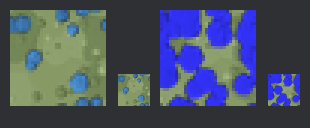
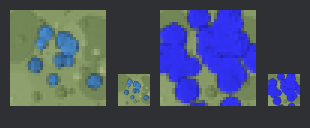
A glint belongs to a rock, not to the square of tile it lands on (ASSA-216) (#319)
* A clump may only be bigger than a tile if it crosses one (ASSA-216, not for merge yet)

Maren's ruling: clump the spots in `ore.py::tile` rather than scattering them
uniformly, same count, sizes and colours, and bring the panel at 1x.

THE FIRST THING I RENDERED WAS WORSE THAN CONFETTI. Pulling each rock toward one
of four centres INSIDE its tile, at 0.80, 0.60 and 0.40, draws a GRID: at 1x the
patch reads as rows of blobs with straight gaps, which is the tile lattice QA has
caught us drawing before, traded for the confetti it was meant to fix. The cause
is structural rather than a bad constant - structure confined to a 32 px cell,
with four variants placed by a hash, gives the eye a lattice to find.

SO THE CLUSTER CENTRES ARE THE MIDPOINTS OF THE TILE'S EDGES. A clump is then
completed by the neighbour's clump on the other side of the join, whichever
variant the hash put there: the one arrangement a hash-placed sheet can make that
is larger than its own cell. No new rows, no block path, no engine change, and
the same count, sizes, colours and `random` draws in the same order - only WHERE
each rock sits changes, so coverage is the only quantity that can move and it
moves only through overlap.

MEASURED ON THE RENDERS, grade A: coverage 65.1% -> 62.0% (about a fifth of the
shipped B->A gap), C untouched, B smaller. Five art checks pass. `check_headroom`
FAILS BY 0.4 OF A POINT ON TWO ROWS (A_full_v3 8.3 -> 8.7, B_full_v3 1.2 -> 1.6,
[…]

Changed region(s): [[0.3774, 0.0625, 0.9871, 0.8438], [0.029, 0.0625, 0.3484, 0.8438], [0.3194, 0.1562, 0.3484, 0.25]]

diff --git a/sim-game/art/check_clumped.py b/sim-game/art/check_clumped.py
@@ -1,0 +1,197 @@
+#!/usr/bin/env python3
+"""GRADE-A ORE IS CLUMPED, AND OPEN GROUND BETWEEN CLUMPS IS THE PROOF (ASSA-216)
+
+    art/check_clumped.py              # the guard, on the shipped sheet
+    art/check_clumped.py <sheet.png>  # judge any ore sheet, e.g. an old one:
+                                      #   git show 0ddbbb9:sim-game/client/assets/sprites/ore.png > /tmp/old.png
+                                      #   art/check_clumped.py /tmp/old.png   -> FAIL, as it must
+
+WHAT THIS DEFENDS. Maren's ASSA-216 ruling was arrangement, not value: 19 rocks
+spread uniformly over a tile leave holes of one size everywhere, so a deposit
+integrates to a flat yellow mass at 1x -- "candy", "confetti", a texture-scale
+complaint and not a colour one. The fix gathers the same rocks into clumps that
+straddle the tile's joins. Nothing about the fix is visible in any quantity the
+other checks measure: the count, the sizes, the colours, the palette and (since
+`relax()`) the coverage are all deliberately unchanged, so `check_headroom`,
+`check_species_tints` and `species_probe` would all stay green on a revert.
+
+THE MEASURE IS THE GAP, BECAUSE THE GAP IS WHAT A CLUMP MAKES. For every open
+pixel of a tile, the distance to the nearest rock, on the TORUS because the tile
+is seamless; the number is the mean over open pixels. Scatter 19 rocks evenly
+and that mean is small everywhere; gather them and lanes open between the
+clumps. On the authored 64 px frames it rose on every grade-A row at once:
+3.37 -> 4.15, 4.86 -> 6.40, 3.84 -> 4.64, 3.71 -> 4.81.
+
+GRADE A ONLY, AND I WILL SAY WHY RATHER THAN QUIETLY PICK THE ROWS THAT WON.
+This item is about a grade-A deposit; grade A is where the rock is dense enough
+for an arrangement to read at all. On the B rows the same statistic moved by
+anything from -1% to +42%, so a floor there would either be vacuous or would
+fail honest art. This check makes no claim about B, C or depleted.
+
+THE FLOOR IS A MEASUREMENT WITH SLACK, NOT A NUMBER I LIKED: each row's value
+as it ships, times 0.90. The slack is generous on purpose and still huge against
+the noise -- two independent Blender renders of the same art give this statistic
+to **0.00%**, because it reads the alpha silhouette and not the shading.
+
+EXIT CODES
+  0 PASS       -- every grade-A row still has its lanes.
+  1 FAIL       -- a row's open ground tightened: the clump has been undone,
+                  or density was raised until the gaps closed.
+  2 NO VERDICT -- sheet unreadable or a control did not hold. Never a pass.
+"""
+import json, os, sys
+from collections import deque
+
+ART = os.path.dirname(os.path.abspath(__file__))
+SPRITES = os.path.join(os.path.dirname(ART), "client", "assets", "sprites")
+OPAQUE = 200          # same cut as check_headroom: above this is surface
+SLACK = 0.90
+
+# MEASURED ON THE SHIPPED SHEET, TIMES SLACK. Mean distance in authored pixels
+# from open ground to the nearest rock, per grade-A row.
+FLOOR = {
+    "A_full_v0": 3.74,
+    "A_full_v1": 5.76,
+    "A_full_v2": 4.18,
+    "A_full_v3": 4.33,
+}
+
+
+class CannotCheck(Exception):
+    pass
+
+
+def lanes(mask, w, h):
+    """Mean distance from an open pixel to the nearest solid one, wrapping.
+
+    A breadth-first flood from every solid pixel at once, which is the exact
+    4-connected distance transform and needs no library -- these checks run on
+    plain `python3` in CI, where there is no pip and no numpy."""
+    INF = 1 << 30
+    d = [[0 if mask[y][x] else INF for x in range(w)] for y in range(h)]
+    q = deque((x, y) for y in range(h) for x in range(w) if mask[y][x])
+    while q:
+        x, y = q.popleft()
+        for dx, dy in ((1, 0), (-1, 0), (0, 1), (0, -1)):
+            nx, ny = (x + dx) % w, (y + dy) % h
+            if d[ny][nx] > d[y][x] + 1:
+                d[ny][nx] = d[y][x] + 1
+                q.append((nx, ny))
+    open_px = [d[y][x] for y in range(h) for x in range(w) if not mask[y][x]]
+    return (sum(open_px) / len(open_px)) if open_px else None
+
+
+def rows_of(sheet):
+    """(row name, solid mask) for the grade-A rows of an ore sheet."""
+    sys.path.insert(0, ART)
+    from png_stdlib import read_rgba
+    man_path = os.path.join(SPRITES, "manifest.json")
+    if not os.path.exists(man_path):
+        raise CannotCheck("no manifest at %s -- run art/build.py" % man_path)
+    man = json.load(open(man_path)).get("ore")
+    if not man:
+        raise CannotCheck("the manifest describes no `ore` asset.")
+    if not os.path.exists(sheet):
+        raise CannotCheck("no sheet at %s" % sheet)
+    fw, fh = man["frame_px"]
+    _w, _h, px = read_rgba(sheet)
+    out = []
+    for ri, row in enumerate(man["rows"]):
+        if row["name"] not in FLOOR:
+            continue
+        mask = [[px[ri * fh + y][x][3] > OPAQUE for x in range(fw)] for y in range(fh)]
+        out.append((row["name"], mask, fw, fh))
+    if len(out) != len(FLOOR):
+        raise CannotCheck("found %d of the %d rows this check is about; the sheet "
+                          "or the manifest has been renamed under it."
+                          % (len(out), len(FLOOR)))
+    return out
+
+
+def judge(measured):
+    """[(row, mean)] -> the rows whose lanes have closed. One judge for the real
+    run and for the can-fail control, so the control cannot take another path."""
+    return [(n, v, FLOOR[n]) for n, v in measured if v < FLOOR[n]]
+
+
+def main(argv):
+    sheet = argv[0] if argv else os.path.join(SPRITES, "ore.png")
+    rows = rows_of(sheet)
+
+    # CONTROL 1, WIRING: a row with no rock, or no open ground, measures nothing
+    # -- and four identical numbers would mean the sheet is not being cut apart.
+    for name, mask, fw, fh in rows:
+        solid = sum(sum(1 for v in line if v) for line in mask)
+        if solid == 0 or solid == fw * fh:
+            raise CannotCheck("%s is all rock or all hole (%d of %d px): this "
+                              "statistic says nothing about it." % (name, solid, fw * fh))
+    measured = [(n, lanes(m, w, h)) for n, m, w, h in rows]
+    if len(set(round(v, 3) for _, v in measured)) < 2:
+        raise CannotCheck("every row measured the same -- the rows are not being "
+                          "read apart, so none of these numbers mean anything.")
+
+    if "--record" in argv:
+        print("FLOOR = {   # measured x %.2f" % SLACK)
+        for n, v in measured:
+            print("    %-14s %.2f," % ('"%s":' % n, v * SLACK))
+        print("}")
+        return 0
+
+    # CONTROL 2, IT CAN FAIL -- and the first lever I wrote for it did not, which
+    # is the reason this one is a model and not a nudge. Growing the real mask by
+    # a pixel all round LOOKS like closing the gaps and barely moves the mean:
+    # it deletes every open pixel at distance 1 and takes 1 off the rest, and
+    # E[d | d >= 2] - 1 lands back where E[d] was. The control caught my control.
+    #
+    # So the lever is the defect itself: a REGULAR scatter -- discs on a 5x5 grid
+    # at the row's own coverage, which is uniform art of the same density, the
+    # exact thing the clump replaced. It must be judged a failure.
+    name, mask, fw, fh = rows[0]
+    cov = sum(sum(1 for v in line if v) for line in mask) / float(fw * fh)
+    import math
+    side, flat = 5, [[False] * fw for _ in range(fh)]
+    rad = math.sqrt(cov * fw * fh / (side * side * math.pi))
+    for gy in range(side):
+        for gx in range(side):
+            cx, cy = (gx + 0.5) * fw / side, (gy + 0.5) * fh / side
+            for y in range(fh):
+                for x in range(fw):
+                    dx = min(abs(x - cx), fw - abs(x - cx))
+                    dy = min(abs(y - cy), fh - abs(y - cy))
+                    if dx * dx + dy * dy <= rad * rad:
+                        flat[y][x] = True
+    if not judge([(name, lanes(flat, fw, fh))]):
+        raise CannotCheck("the can-fail control did not fail: a regular 5x5 scatter "
+                          "at %s's own coverage (%.1f%%) measured %.2f px of open "
+                          "ground and this check passed it. The guard is not wired "
+                          "to the verdict." % (name, 100 * cov, lanes(flat, fw, fh)))
+
+    bad = judge(measured)
+    print("OPEN GROUND BETWEEN CLUMPS -- mean distance from an open pixel to the\n"
+          "nearest rock, wrapping, per grade-A row of %s.\n" % os.path.basename(sheet))
+    print("%-14s %10s %10s" % ("row", "mean px", "floor"))
+    for n, v in measured:
+        print("%-14s %10.2f %10.2f" % (n, v, FLOOR[n]))
+
+    if bad:
+        print("\n%d GRADE-A ROW(S) LOST THE LANES BETWEEN THEIR CLUMPS:" % len(bad))
+        for n, v, floor in bad:
+            print("  %-12s %.2f px of open ground, against a floor of %.2f" % (n, v, floor))
+        print("\nASSA-216: the complaint this art answers is that a deposit reads as one\n"
+              "flat mass at 1x. The clump in `art/assets/ore.py` (CLUMP_PULL, CLUMP_SEP,\n"
+              "CLUMP_EDGES) is what opens the gaps. If this went red on purpose, say in\n"
+              "the commit message what replaced it -- and look at a 9x9 field at 32 px\n"
+              "before you believe any number here, including this one.")
+        print("\nVERDICT: FAIL (exit 1).")
+        return 1
+    print("\nVERDICT: PASS (exit 0). Grade-A ore still reads as clumps with ground\n"
+          "between them, and both controls held.")
+    return 0
+
+
+if __name__ == "__main__":
+    try:
+        sys.exit(main(sys.argv[1:]))
+    except CannotCheck as why:
+        print("\nVERDICT: NO VERDICT (exit 2). This is not a pass.\n%s" % why)
+        sys.exit(2)

diff --git a/sim-game/art/assets/ore.py b/sim-game/art/assets/ore.py
@@ -151,6 +151,81 @@ def glint(r, s, loc):
                verts=5, rot=(random.uniform(-0.4, 0.4), random.uniform(-0.4, 0.4), ang))
 
 
+# **THE CLUMPS SIT ON THE TILE'S JOINS, NOT INSIDE IT** (ASSA-216). Gathering
+# rocks toward four centres INSIDE a tile was the first thing I rendered and it
+# draws a lattice: the structure stops at 32 px, every copy of a variant has its
+# holes in the same place, and at 1x the patch reads as a grid of blobs -- the
+# tile lattice QA has caught us drawing before, traded for the confetti it was
+# meant to fix. Three pulls, three renders, all of them a grid.
+#
+# A clump may only be bigger than a tile if it CROSSES one. These four centres
+# are the midpoints of the tile's four edges, so a clump is completed by the
+# neighbour's clump on the other side of the join, whichever variant that is --
+# the one arrangement a hash-placed sheet can make that is larger than its own
+# cell. Nothing else changes: same count, same sizes, same colours, same draws.
+CLUMP_EDGES = ((0.5, 0.0), (0.0, 0.5), (-0.5, 0.0), (0.0, -0.5))
+CLUMP_PULL = 0.50  # 1.0 = today's uniform scatter; 0 = every rock on its centre
+
+# **A PULL TOWARD A POINT SPENDS COVERAGE, AND COVERAGE IS THE GRADE LADDER**
+# (ASSA-216 box 4/5). Pulling 19 rocks toward a centre compresses the area they
+# sit in, so they bury each other: grade A's coverage fell 65.1% -> 62.0%, about
+# a fifth of the shipped B->A gap, for an arrangement change that is supposed to
+# claim nothing about quantity (rule 4 and the header's own "NEVER density").
+# It also broke `check_headroom`, which measures pinned pixels as a SHARE of a
+# row's opaque pixels: lose rock and keep glints and the share rises with the
+# art unchanged.
+#
+# So the clump is relaxed afterwards: any two rocks closer than
+# `CLUMP_SEP * (si + sj)` are pushed apart along their own axis, on the TORUS,
+# because the tile wraps. Rocks may touch and overlap -- the shipped scatter
+# already does, at 19 discs whose footprints sum to more than a tile -- they may
+# not bury each other. `CLUMP_SEP` is set by a measurement and not by eye: it is
+# the value that returns grade-A coverage to the shipped 65.1%, so the clump is
+# an arrangement change and only an arrangement change.
+CLUMP_SEP = 0.42
+CLUMP_PASSES = 48
+
+
+def clump(spots):
+    """The same rocks, gathered onto the joins. Spot i joins edge `i % 4` and is
+    pulled `CLUMP_PULL` of the way toward it, wrapped into the tile, because the
+    tile is seamless and a rock that leaves one side arrives at the other.
+    """
+    if CLUMP_PULL >= 1.0:
+        return spots
+    out = []
+    for i, (x, y, s) in enumerate(spots):
+        cx, cy = CLUMP_EDGES[i % len(CLUMP_EDGES)]
+        nx, ny = cx + (x - cx) * CLUMP_PULL, cy + (y - cy) * CLUMP_PULL
+        out.append(((nx + 0.5) % 1.0 - 0.5, (ny + 0.5) % 1.0 - 0.5, s))
+    return relax(out)
+
+
+def relax(spots):
+    """Push buried rocks apart, on the torus. Deterministic and `random`-free:
+    it must not consume a draw, or every rotation after it changes and the arm
+    stops being the same rocks in a different place."""
+    if CLUMP_SEP <= 0.0:
+        return spots
+    out = [[x, y, s] for (x, y, s) in spots]
+    for _ in range(CLUMP_PASSES):
+        for i in range(len(out)):
+            for j in range(i + 1, len(out)):
+                dx = (out[j][0] - out[i][0] + 0.5) % 1.0 - 0.5
+                dy = (out[j][1] - out[i][1] + 0.5) % 1.0 - 0.5
+                d = math.hypot(dx, dy)
+                want = CLUMP_SEP * (out[i][2] + out[j][2])
+                if d >= want:
+                    continue
+                if d < 1e-6:  # dead centre on each other: part them along x
+                    dx, dy, d = 1e-6, 0.0, 1e-6
+                push = (want - d) / 2.0
+                ux, uy = dx / d * push, dy / d * push
+                out[i][0] -= ux; out[i][1] -= uy
+                out[j][0] += ux; out[j][1] += uy
+    return [((x + 0.5) % 1.0 - 0.5, (y + 0.5) % 1.0 - 0.5, s) for (x, y, s) in out]
+
+
 def tile(step, seed):
     """`step` is the grade index 0..2, or -1 for depleted.
 
@@ -186,15 +261,44 @@ def tile(step, seed):
         count = 9 + step * 5
         smin, smax = 0.065 + step * 0.020, 0.115 + step * 0.032
         spots = [(random.uniform(-0.5, 0.5), random.uniform(-0.5, 0.5), random.uniform(smin, smax)) for _ in range(count)]
+        # **ARRANGEMENT, NOT DENSITY** (ASSA-216, Maren's ruling). The complaint
+        # is "candy"/"confetti", which is a word about texture before it is a
+        # word about value: 19 rocks spread uniformly over a tile leave holes of
+        # one size everywhere, so a patch of them integrates to a flat mass at
+        # 1x however the colours are arranged.
+        #
+        # THIS DOES NOT DRAW ANYTHING NEW. The same `count`, the same sizes and
+        # the same colours come off the same `random` draws in the same order --
+        # only WHERE each rock sits changes, by pulling it toward its cluster's
+        # centre. So coverage is the only quantity that can move, it moves only
+        # through overlap, and `CLUMP_PULL` is the one number to argue about.
+        # (The header's own rule: "if it ever looks stamped-on, the lever is
+        # more arrangement variants, NEVER density". This is that lever used on
+        # the arrangement itself rather than on the count.)
+        #
+        # THE GLINT SET IS DECIDED HERE, ON THE UNIFORM POSITIONS, BEFORE THE
+        # CLUMP MOVES ANYTHING. The test below used to read the rock's FINAL
+        # position, which quietly made an arrangement change a glint change:
+        # moving the rocks re-rolled which of them sparkle, and with 19 rocks
+        # that is +-2 glints a row. It showed up as `check_headroom` moving by
+        # five points on one row and nothing on another, out of a change that
+        # does not touch light at all. A glint belongs to a ROCK (its own size
+        # and seed), not to the square of tile it ends up on, and because
+        # `glint()` consumes random draws, pinning the set also keeps every
+        # later rock's rotation identical to the shipped art.
+        glints = [(x * 7 + y * 13) % 1 < 0.3 for (x, y, _s) in spots]
+        spots = clump(spots)
         colors = [shade(step, random.choice((0.0, 0.20, -0.15))) for _ in spots]
+    if step < 0:
+        glints = [False] * len(spots)
     for dx in (-1, 0, 1):
         for dy in (-1, 0, 1):
             random.seed(seed * 7 + 1)  # same rotations in every wrapped copy
-            for (x, y, s), c in zip(spots, colors):
+            for (x, y, s), c, lit in zip(spots, colors, glints):
                 rock(r, s, (x + dx, y + dy, 0.01), c)
                 # Grade A only. A glint is the rig's "this changes a number"
                 # mark, and A is the top of the ladder the parts already use.
-                if step == 2 and (x * 7 + y * 13) % 1 < 0.3:
+                if step == 2 and lit:
                     glint(r, s, (x + dx, y + dy, 0))
     r.frame(1, 1)
     return r

diff --git a/sim-game/art/README.md b/sim-game/art/README.md
@@ -563,6 +563,46 @@ the C hopper falls under L\* 35 and its gap from the head drops to 7.7.
 - Review at 1× game size (the small copies on the contact sheet). If it
   doesn't read there, it doesn't matter how it looks zoomed in.
 
+## A CLUMP MAY ONLY BE BIGGER THAN A TILE IF IT CROSSES ONE
+
+**Structure confined to one 32 px cell, placed by a hash over a handful of
+variants, gives the eye a lattice to find.** Recorded as a law by the Game
+Director (ASSA-216) because it outlives the sheet it was learned on, and it has
+now been learned twice from opposite ends:
+
+- **The ground (ASSA-153/202).** A 4×4 block of ground variants passed every
+  measurement and at 1× you could point at the block; it went to 8×8.
+- **Ore (ASSA-216).** Gathering a tile's rocks toward four centres *inside* the
+  tile was the first thing rendered, at three strengths, and all three drew a
+  grid: every copy of a variant has its holes in the same place, so a patch
+  reads as rows of blobs with straight gaps — the tile lattice QA has caught us
+  drawing before, traded for the confetti it was meant to fix. Uniform scatter's
+  one virtue is that it has no structure to align.
+
+So an arrangement may only carry structure larger than a rock **if that
+structure crosses a tile join**: `ore.py`'s cluster centres are the midpoints of
+the tile's four edges, and a clump is completed by whichever variant the hash put
+on the other side. That is the one arrangement a hash-placed sheet can make that
+is bigger than its own cell, and it needs no new rows and no engine change.
+
+**Two corollaries, both measured rather than reasoned:**
+
+- **A clump spends coverage, and coverage is the grade ladder.** Pulling rocks
+  together buries them: grade A fell 65.1% → 62.0% before `relax()` pushed any
+  two rocks closer than `CLUMP_SEP * (si + sj)` apart again. An arrangement
+  change must claim nothing about quantity, so the constant is set by a sweep
+  that returns coverage to the shipped number, never by eye.
+- **It also empties the tile's border**, which is a deposit's rim wherever that
+  tile lands. That is a trade with the hard `contains()` boundary and it is the
+  Director's to take, not a number to tune away. Centres on the tile's *corners*
+  were tried and are worse: a corner is shared by four tiles, the four clumps
+  meet, and the field fills in flat again.
+
+**Reopen condition, so this is not taste:** if a sheet ever gets enough variants
+that a repeat cannot be found at 1× — or if placement stops being a hash — the
+in-cell arrangement is open again. Judge it on a 9×9 field at 32 px
+(`cove-assa216-clump/patch_field.py`), never on one tile at 256 px.
+
 ## Animation: what makes a loop read as a settle rather than a flicker
 
 Two of ASSA-115's boxes were animation timing, and both of my first readings were
